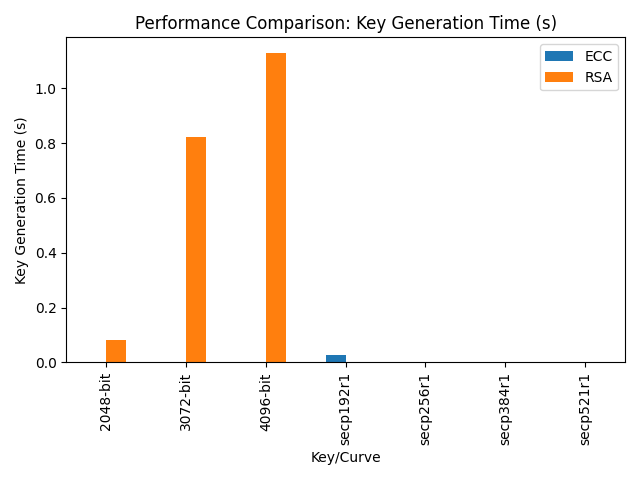
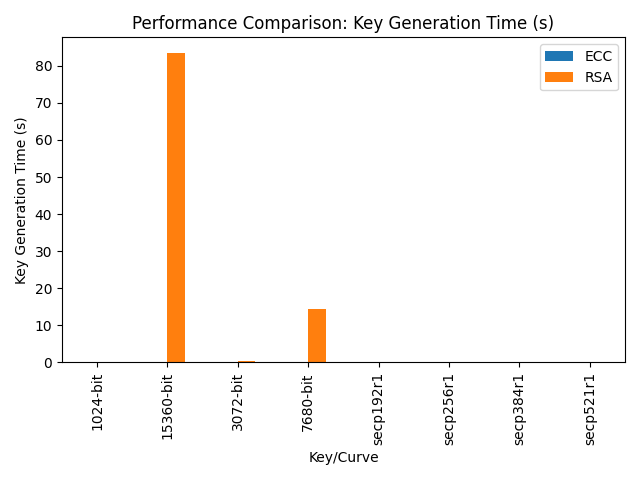
30,12,24

diff --git a/ECC vs RSA/eccVSrsa.py b/ECC vs RSA/eccVSrsa.py
@@ -5,7 +5,7 @@ from cryptography.hazmat.backends import default_backend
 import pandas as pd
 import matplotlib.pyplot as plt
 
-# ECC curves and RSA key sizes for comparison
+# ECC eğrileri ve karşılaştırma için RSA anahtar uzunlukları
 ecc_curves = [
     ("secp192r1", ec.SECP192R1()),
     ("secp256r1", ec.SECP256R1()),
@@ -13,30 +13,31 @@ ecc_curves = [
     ("secp521r1", ec.SECP521R1())
 ]
 
-rsa_key_sizes = [2048, 3072, 4096]
+# RSA anahtar uzunluklarını güncelledik
+rsa_key_sizes = [1024, 3072, 7680, 15360]
 
 results = []
 
-# ECC Performance Tests
+# ECC Performans Testleri
 for curve_name, curve in ecc_curves:
-    # Key Generation
+    # Anahtar Üretimi
     start_time = time.time()
     private_key = ec.generate_private_key(curve, default_backend())
     key_gen_time = time.time() - start_time
 
-    # Signing
+    # İmzalama
     data = b"This is a test message."
     start_time = time.time()
     signature = private_key.sign(data, ec.ECDSA(hashes.SHA256()))
     signing_time = time.time() - start_time
 
-    # Verification
+    # Doğrulama
     public_key = private_key.public_key()
     start_time = time.time()
     public_key.verify(signature, data, ec.ECDSA(hashes.SHA256()))
     verification_time = time.time() - start_time
 
-    # Append results
+    # Sonuçları ekleme
     results.append({
         "Algorithm": "ECC",
         "Key/Curve": curve_name,
@@ -45,74 +46,79 @@ for curve_name, curve in ecc_curves:
         "Verification Time (s)": verification_time
     })
 
-# RSA Performance Tests
+# RSA Performans Testleri
 for key_size in rsa_key_sizes:
-    # Key Generation
-    start_time = time.time()
-    private_key = rsa.generate_private_key(
-        public_exponent=65537,
-        key_size=key_size,
-        backend=default_backend()
-    )
-    key_gen_time = time.time() - start_time
+    try:
+        # Anahtar Üretimi
+        start_time = time.time()
+        private_key = rsa.generate_private_key(
+            public_exponent=65537,
+            key_size=key_size,
+            backend=default_backend()
+        )
+        key_gen_time = time.time() - start_time
 
-    # Signing
-    data = b"This is a test message."
-    start_time = time.time()
-    signature = private_key.sign(
-        data,
-        padding.PSS(
-            mgf=padding.MGF1(hashes.SHA256()),
-            salt_length=padding.PSS.MAX_LENGTH
-        ),
-        hashes.SHA256()
-    )
-    signing_time = time.time() - start_time
+        # İmzalama
+        data = b"This is a test message."
+        start_time = time.time()
+        signature = private_key.sign(
+            data,
+            padding.PSS(
+                mgf=padding.MGF1(hashes.SHA256()),
+                salt_length=padding.PSS.MAX_LENGTH
+            ),
+            hashes.SHA256()
+        )
+        signing_time = time.time() - start_time
 
-    # Verification
-    public_key = private_key.public_key()
-    start_time = time.time()
-    public_key.verify(
-        signature,
-        data,
-        padding.PSS(
-            mgf=padding.MGF1(hashes.SHA256()),
-            salt_length=padding.PSS.MAX_LENGTH
-        ),
-        hashes.SHA256()
-    )
-    verification_time = time.time() - start_time
+        # Doğrulama
+        public_key = private_key.public_key()
+        start_time = time.time()
+        public_key.verify(
+            signature,
+            data,
+            padding.PSS(
+                mgf=padding.MGF1(hashes.SHA256()),
+                salt_length=padding.PSS.MAX_LENGTH
+            ),
+            hashes.SHA256()
+        )
+        verification_time = time.time() - start_time
 
-    # Append results
-    results.append({
-        "Algorithm": "RSA",
-        "Key/Curve": f"{key_size}-bit",
-        "Key Generation Time (s)": key_gen_time,
-        "Signing Time (s)": signing_time,
-        "Verification Time (s)": verification_time
-    })
+        # Sonuçları ekleme
+        results.append({
+            "Algorithm": "RSA",
+            "Key/Curve": f"{key_size}-bit",
+            "Key Generation Time (s)": key_gen_time,
+            "Signing Time (s)": signing_time,
+            "Verification Time (s)": verification_time
+        })
+    except ValueError as e:
+        print(f"Key size {key_size}-bit is not supported: {e}")
+    except Exception as e:
+        print(f"An error occurred with key size {key_size}-bit: {e}")
 
-# Convert results to DataFrame
+# Sonuçları DataFrame'e dönüştürme
 results_df = pd.DataFrame(results)
 
-# Check if DataFrame is empty
+# DataFrame'in boş olup olmadığını kontrol etme
 if results_df.empty:
     print("No data collected. Please check the test implementation.")
 else:
     print("Collected data:")
     print(results_df)
 
-    # Save results as CSV for documentation
+    # Sonuçları CSV olarak kaydetme
     results_df.to_csv("ecc_vs_rsa_performance_results.csv", index=False)
 
-    # Plot results
+    # Sonuçları görselleştirme
     for metric in ["Key Generation Time (s)", "Signing Time (s)", "Verification Time (s)"]:
         pivot_table = results_df.pivot(index="Key/Curve", columns="Algorithm", values=metric)
         if pivot_table.empty:
             print(f"No data available for metric: {metric}")
             continue
 
-        plt.figure()
+        plt.figure(figsize=(10, 6))
         pivot_table.plot(kind="bar")
         plt.title(f"Performance Comparison: {metric}")
         plt.ylabel(metric)

diff --git a/Practical Usability/practical-usage.py b/Practical Usability/practical-usage.py
@@ -126,7 +126,7 @@ def compare_ecc_vs_rsa():
     results = [
         ("Power Consumption (avg CPU %)", ecc_power, rsa_power),
         ("Speed (ms)", ecc_speed, rsa_speed),
-        ("Usability (0-10)", ecc_usability, rsa_usability),
+        ("Usability (0-1.0)", ecc_usability, rsa_usability),
     ]
 
     # Print results to console
